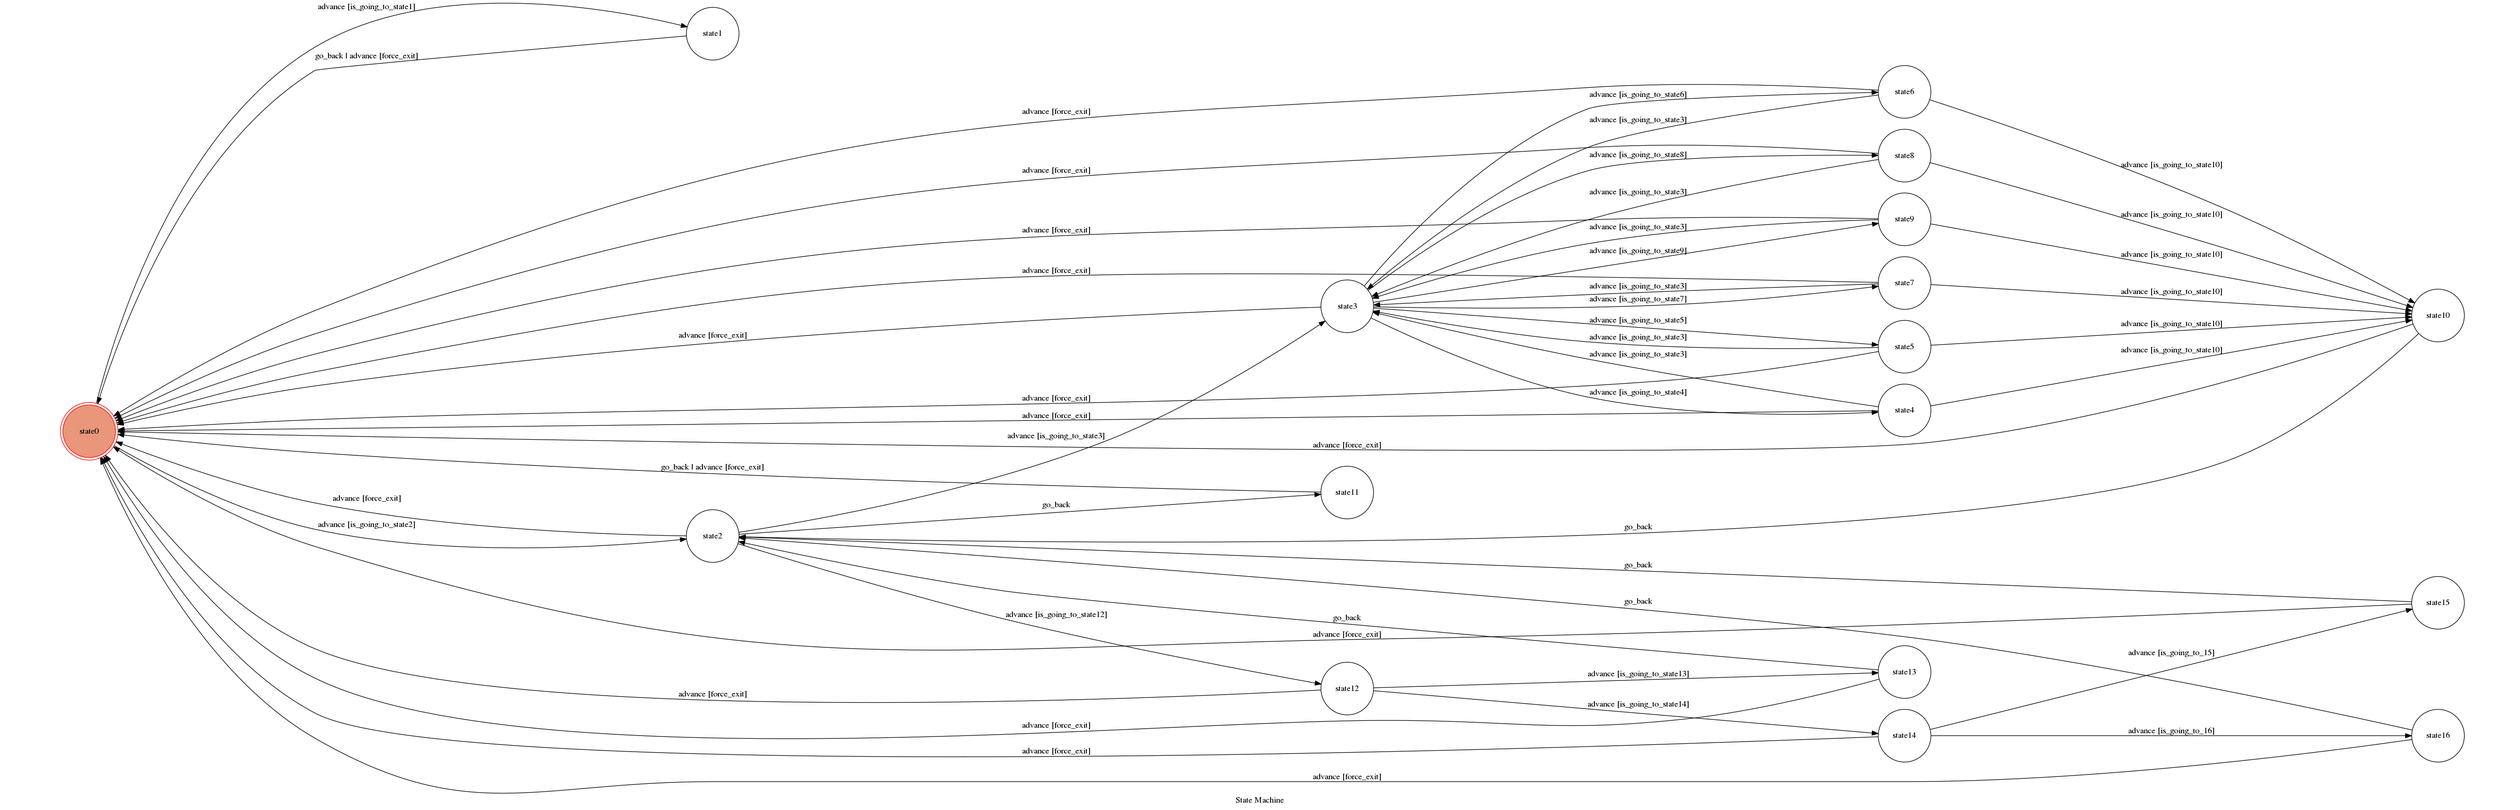
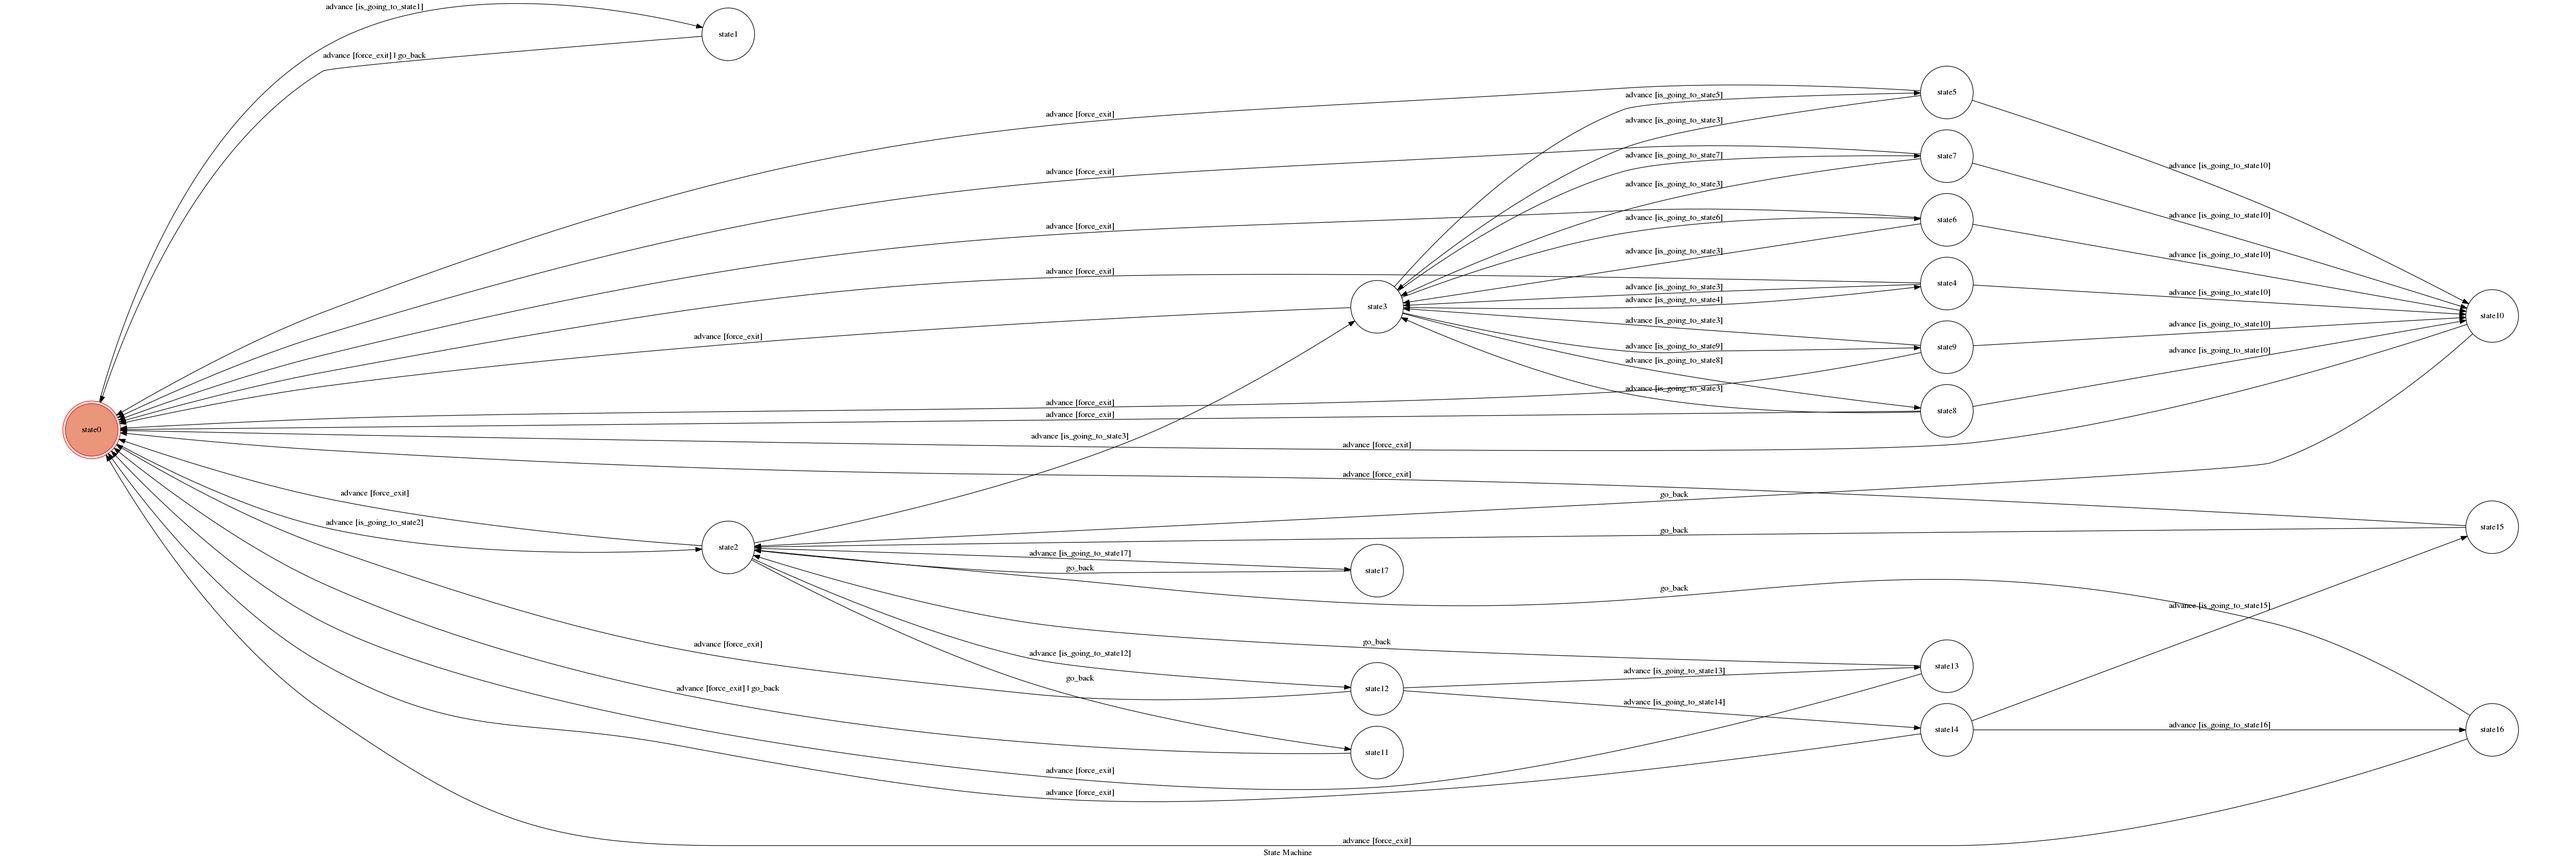
final version (without readme)

diff --git a/fsm.py b/fsm.py
@@ -1,5 +1,6 @@
 from transitions.extensions import GraphMachine
 import time
+import random
 
 Hp = 60
 Lp = 60
@@ -210,7 +211,7 @@ class TocMachine(GraphMachine):
         text = update.message.text
         return text.lower() == '17'
     def on_enter_state17(self, update):
-        dice = random.randint(0,4)
+        dice = random.randint(0,3)
         if dice == 1:
             update.message.reply_text("ｘｘ個人電腦維修工作室\n這天半夜有個客人打電話來問說\n客人：「ｘｘ電腦維修公司嗎？」\n工程師：「是的！請問客人有什麼問題？」\n客人：「我的電腦不能開機。」\n工程師：「您電源插頭有插嗎？」\n客人：「有的。」\n工程師：「請檢查一下ｐｏｗｅｒ電源插頭是否有鬆落，接觸不良。」\n客人：「沒！」\n工程師：「那請您拿出紙、筆來。」\n客人：「喔好。稍等一下，我先找一下拿手電筒。」\n工程師：「為什麼要拿手電筒？」\n客人：「我家停電啊！」\n工程師：「…………」\n")
         elif dice == 2:

diff --git a/app.py b/app.py
@@ -10,7 +10,7 @@ from fsm import TocMachine
 
 
 API_TOKEN = '383745047:AAG-amRDwnRxdm9NpVaEbZIX-IegmuEgJnk'
-WEBHOOK_URL = 'https://1ca7870b.ngrok.io/hook'
+WEBHOOK_URL = 'https://057ba229.ngrok.io/hook'
 
 app = Flask(__name__)
 bot = telegram.Bot(token=API_TOKEN)
@@ -194,6 +194,7 @@ machine = TocMachine(
                     'state14',
                     'state15',
                     'state16',
+					'state17',
                 ],
             'dest': 'state0',
             'conditions': 'force_exit',
